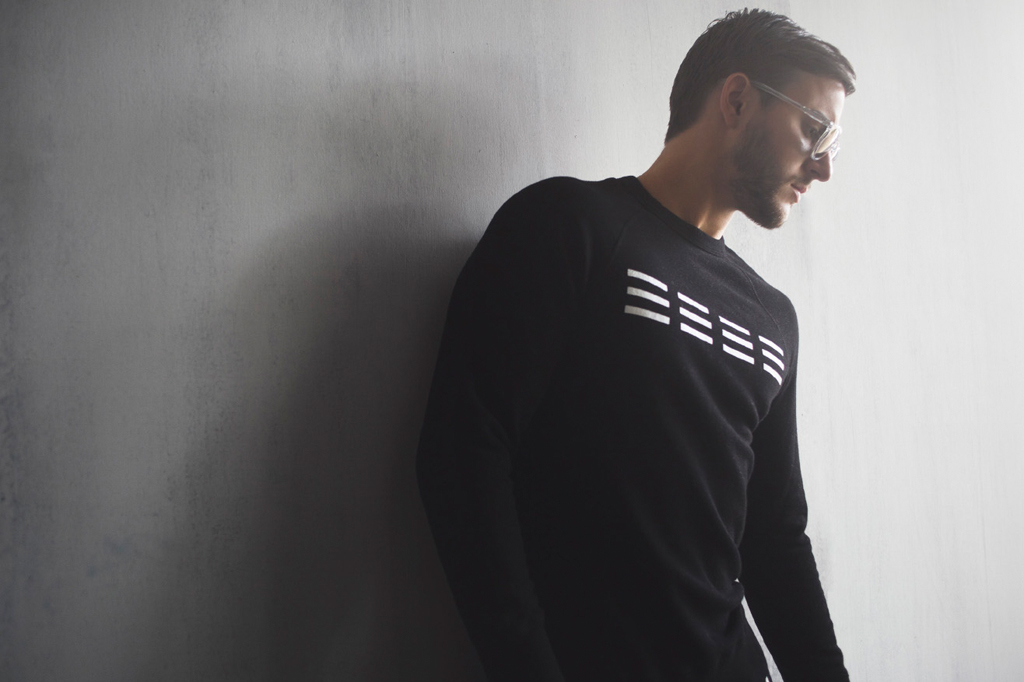
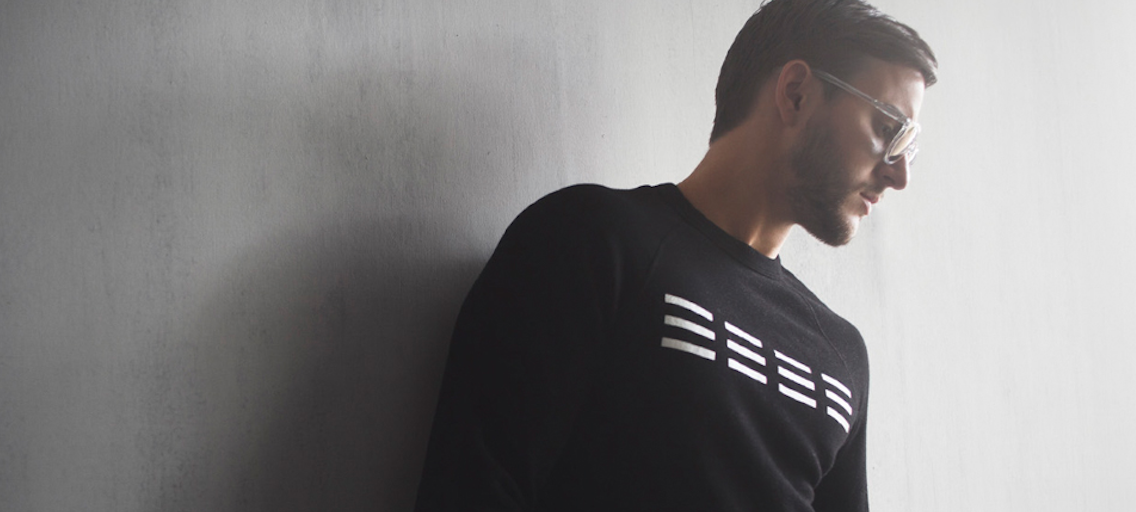
em, fluid layout, media inquiries
Adjusted to a fluid layout involving em’s, %’s, and media inquiries for
viewing on desktop, iPad, and iPhone.

diff --git a/index.html b/index.html
@@ -5,28 +5,54 @@
 	<link href='http://fonts.googleapis.com/css?family=Biryani:400,800' rel='stylesheet' type='text/css'>
 	<link href='http://fonts.googleapis.com/css?family=Titillium+Web:400,300' rel='stylesheet' type='text/css'>
 	<link rel="stylesheet" type="text/css" href="CSS/style.css">
-		<title>STROHMEYER</title>
-		<h1>STROHMEYER</h1>
-	<div>
-		<ul>
-			<li>HOME</li>
-			<li>PRODUCT</li>
-			<li>COLLECTIONS</li>
-			<li>ABOUT</li>
-			<li>CONTACT</li>
-		</ul>
-	</div>	
-				
+		<meta name="viewport" content="initial-scale=1.0, width=device-width" />
+		<title>STROHMEYER</title>				
 </head>
 
 <body>
-<img src="images/baldwin.jpg" alt="guy in baldwin" title="guy in baldwin" id="baldwin">
-		<p id="slogan">MENSWEAR SIMPLIFIED</p>
-		<p>a blend of consistently functional activewear and workwear silhouettes tailored to a progressive and modern aesthetic</p><br>
+	<div class="wrapper">
+		<header><h1>STROHMEYER JOSEPH</h1></header>	
+		<nav>
+			<a href="#">HOME</a>
+			<a href="#">PRODUCT</a>
+			<a href="#">COLLECTIONS</a>
+			<a href="#">CART (0)</a>
+		</nav>
+
+	<img src="images/baldwin.jpg" alt="guy in baldwin" title="guy in baldwin">
+
+	<div class="column1">
+		<p>Lorem ipsum dolor sit amet, consectetur adipisicing elit, sed do eiusmod
+		tempor incididunt ut labore et dolore magna aliqua. Ut enim ad minim veniam,
+		quis nostrud exercitation ullamco laboris nisi ut aliquip ex ea commodo
+		consequat. Lorem ipsum dolor sit amet, consectetur adipisicing elit, sed do eiusmod
+		tempor incididunt ut labore et dolore magna aliqua. </p>
+	</div>
+	<div class="column2">
+		<p>Lorem ipsum dolor sit amet, consectetur adipisicing elit, sed do eiusmod
+		tempor incididunt ut labore et dolore magna aliqua. Ut enim ad minim veniam,
+		quis nostrud exercitation ullamco laboris nisi ut aliquip ex ea commodo
+		consequat. </p>
+	</div>
+	<div class="column3">
+		<p><a href="#" id="press">PRESS</a>
+		<a href="#">CONTACT US</a>
+		<a href="#">RETURN POLICY</a>
+		<a href="#">STORE LOCATOR</a>
+		<a href="#" id="sitemap">SITE MAP</a></p>
+		
+	</div>
 
 	<hr>
-		<p id="copyright">&copy 2015 STROHMEYER - ALL RIGHTS RESERVED</p>
-	
+		<footer>
+		<p>&copy 2015 STROHMEYER JOSEPH - ALL RIGHTS RESERVED</p>
+		</footer>
+	</div>
 </body>
 
 </html>
+
+
+
+
+	

diff --git a/style.css b/style.css
@@ -1,0 +1,47 @@
+@font-face {
+	font-family: BebasNeue;
+	src: url('fonts/BebasNeue.otf');
+}
+
+h1 {
+	font-family: 'BebasNeue', sans-serif;
+	font-size: 68px;
+	text-align: center;
+	color: #000;
+	letter-spacing: 0.2em;
+	line-height: 0.2em;
+}
+
+nav {
+	font-family: 'Titillium Web', sans-serif;
+	text-decoration: none;
+	display: block;
+	float: left;
+	padding: 20px;
+	text-align: center;
+	color: #fff;
+}
+
+body {
+	font-size: 16px;
+	font-family: 'Titillium Web', sans-serif;
+	text-align: center;
+	background-repeat: no-repeat;
+}
+
+#img {
+	margin-right: auto;
+	margin-left: auto;
+	height: auto;
+	width: 1415px;
+}
+
+#copyright {
+	color: gray;
+	font-size: 16px
+}
+
+hr {
+	height: 1px;
+	width: 500px;
+}

diff --git a/unit6final/css/style2.css b/unit6final/css/style2.css
@@ -1,5 +1,5 @@
 * {
-	margin: 0 auto;
+	margin: 0;
 	padding: 0;
 }
 body {
